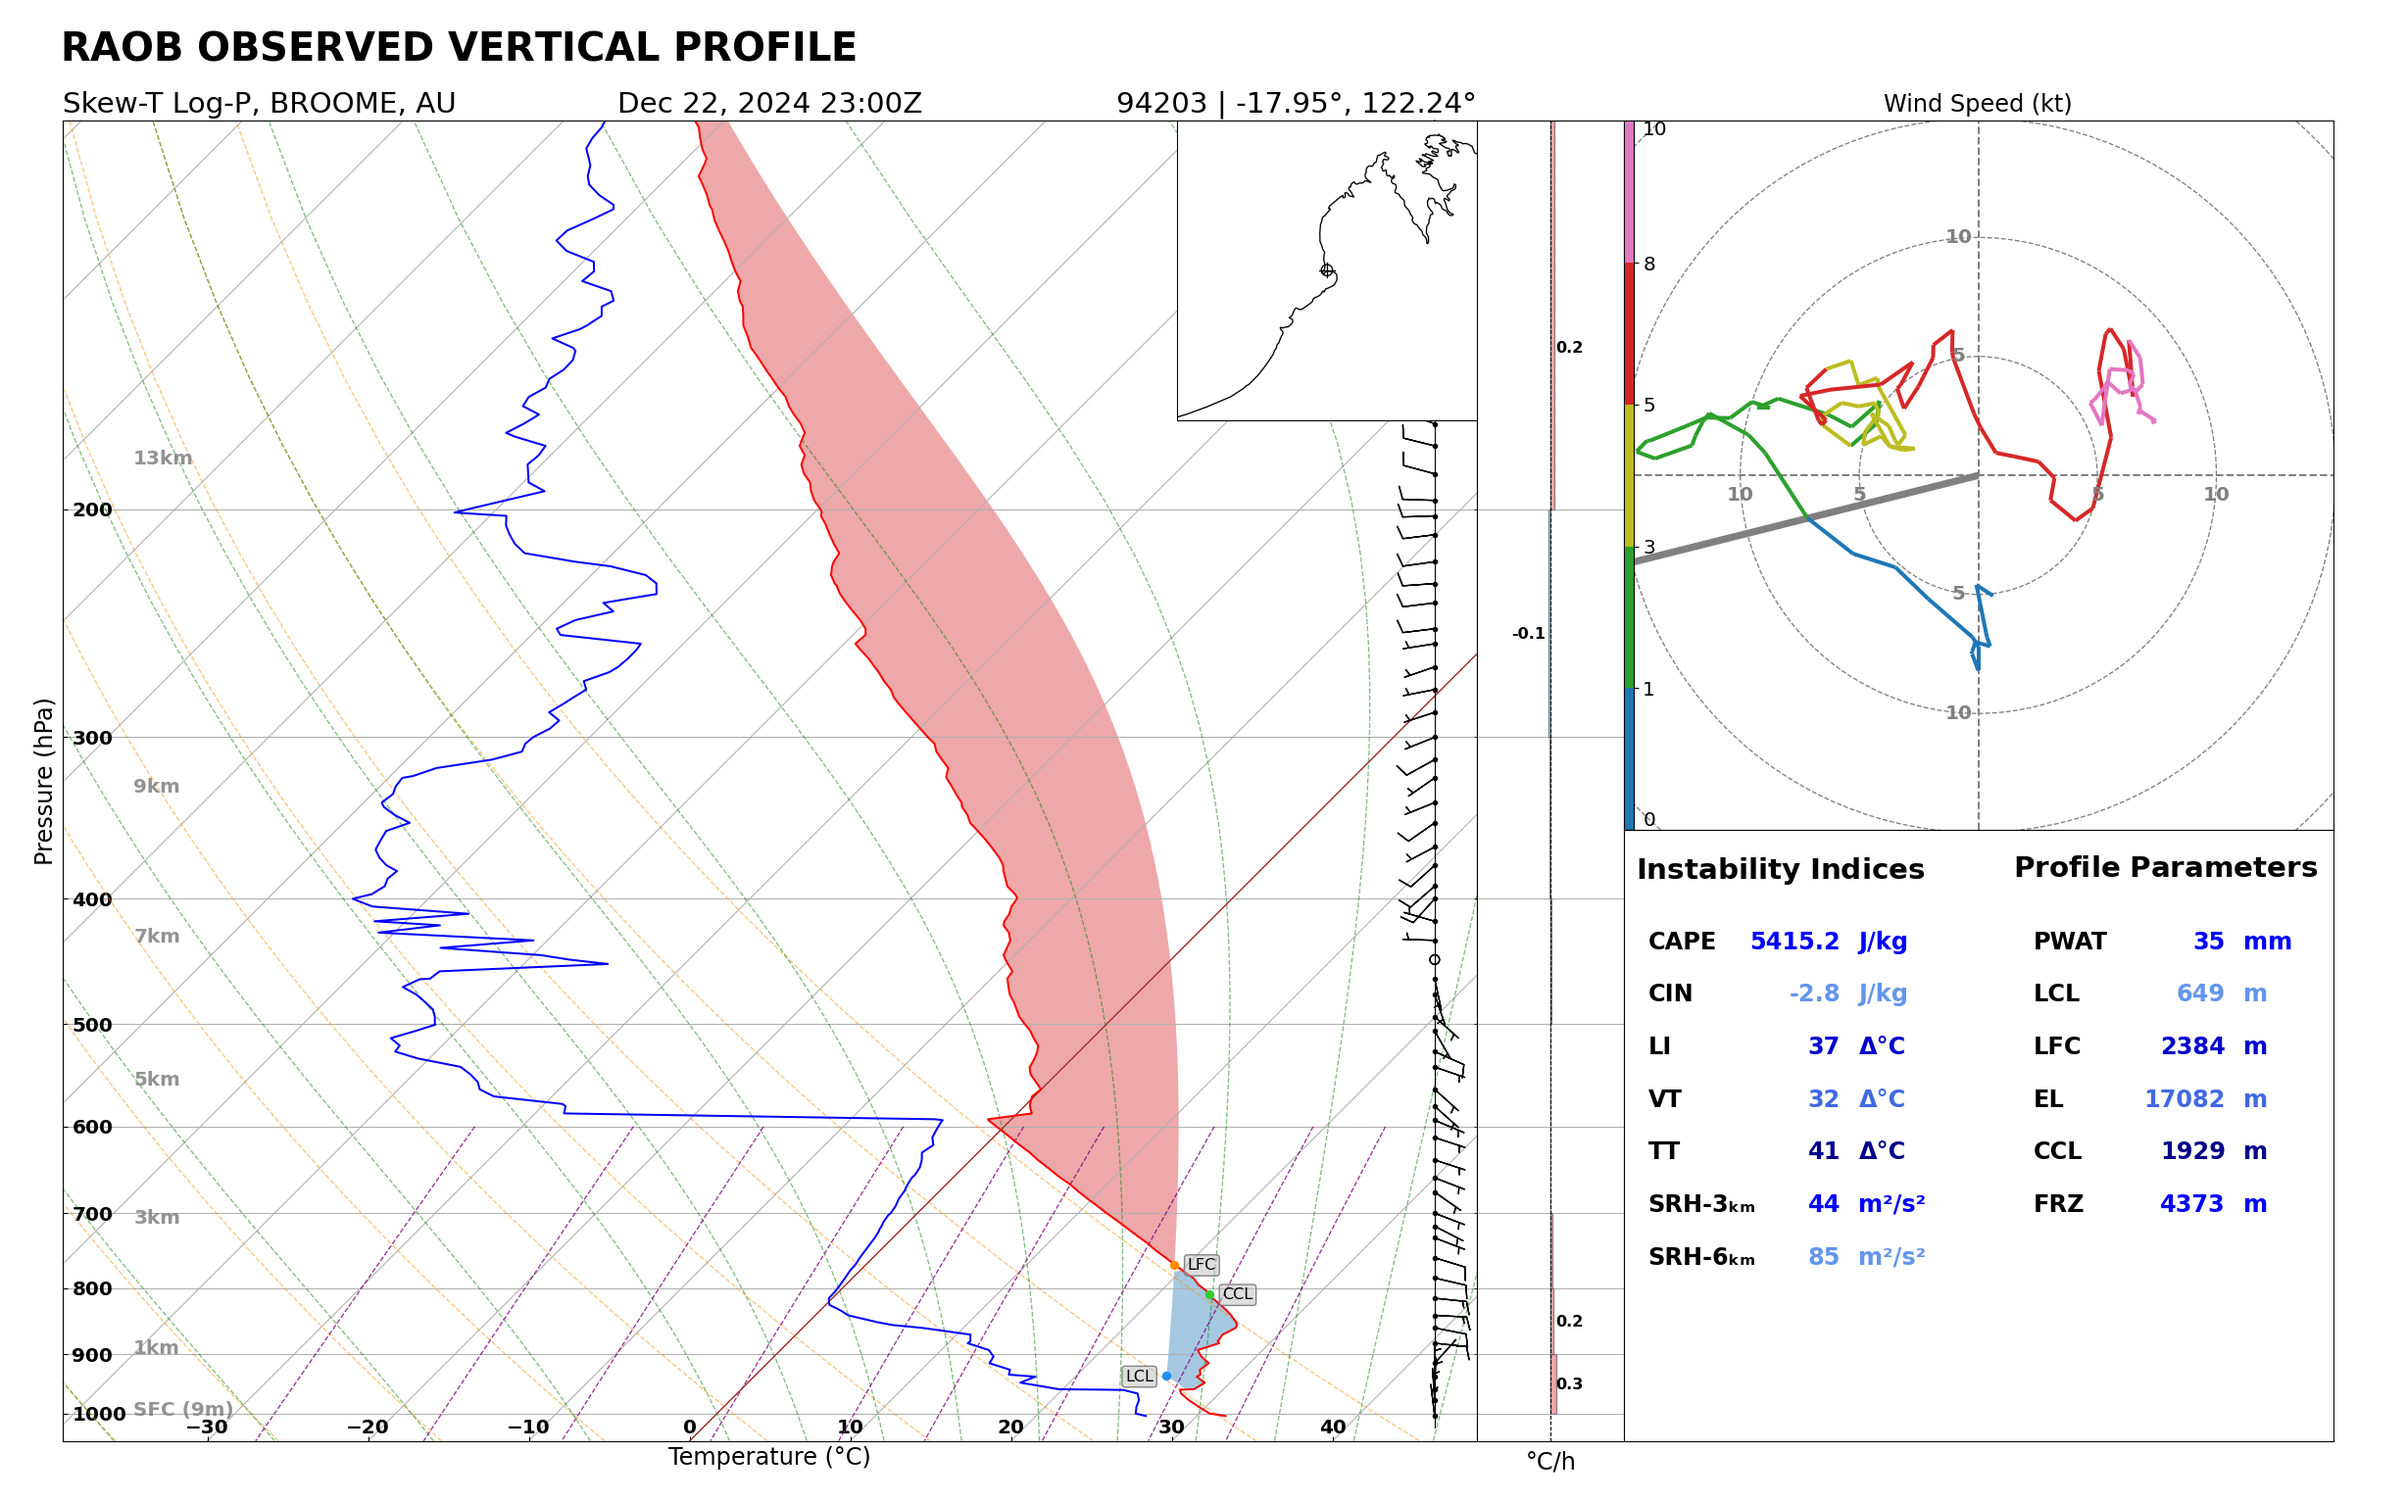
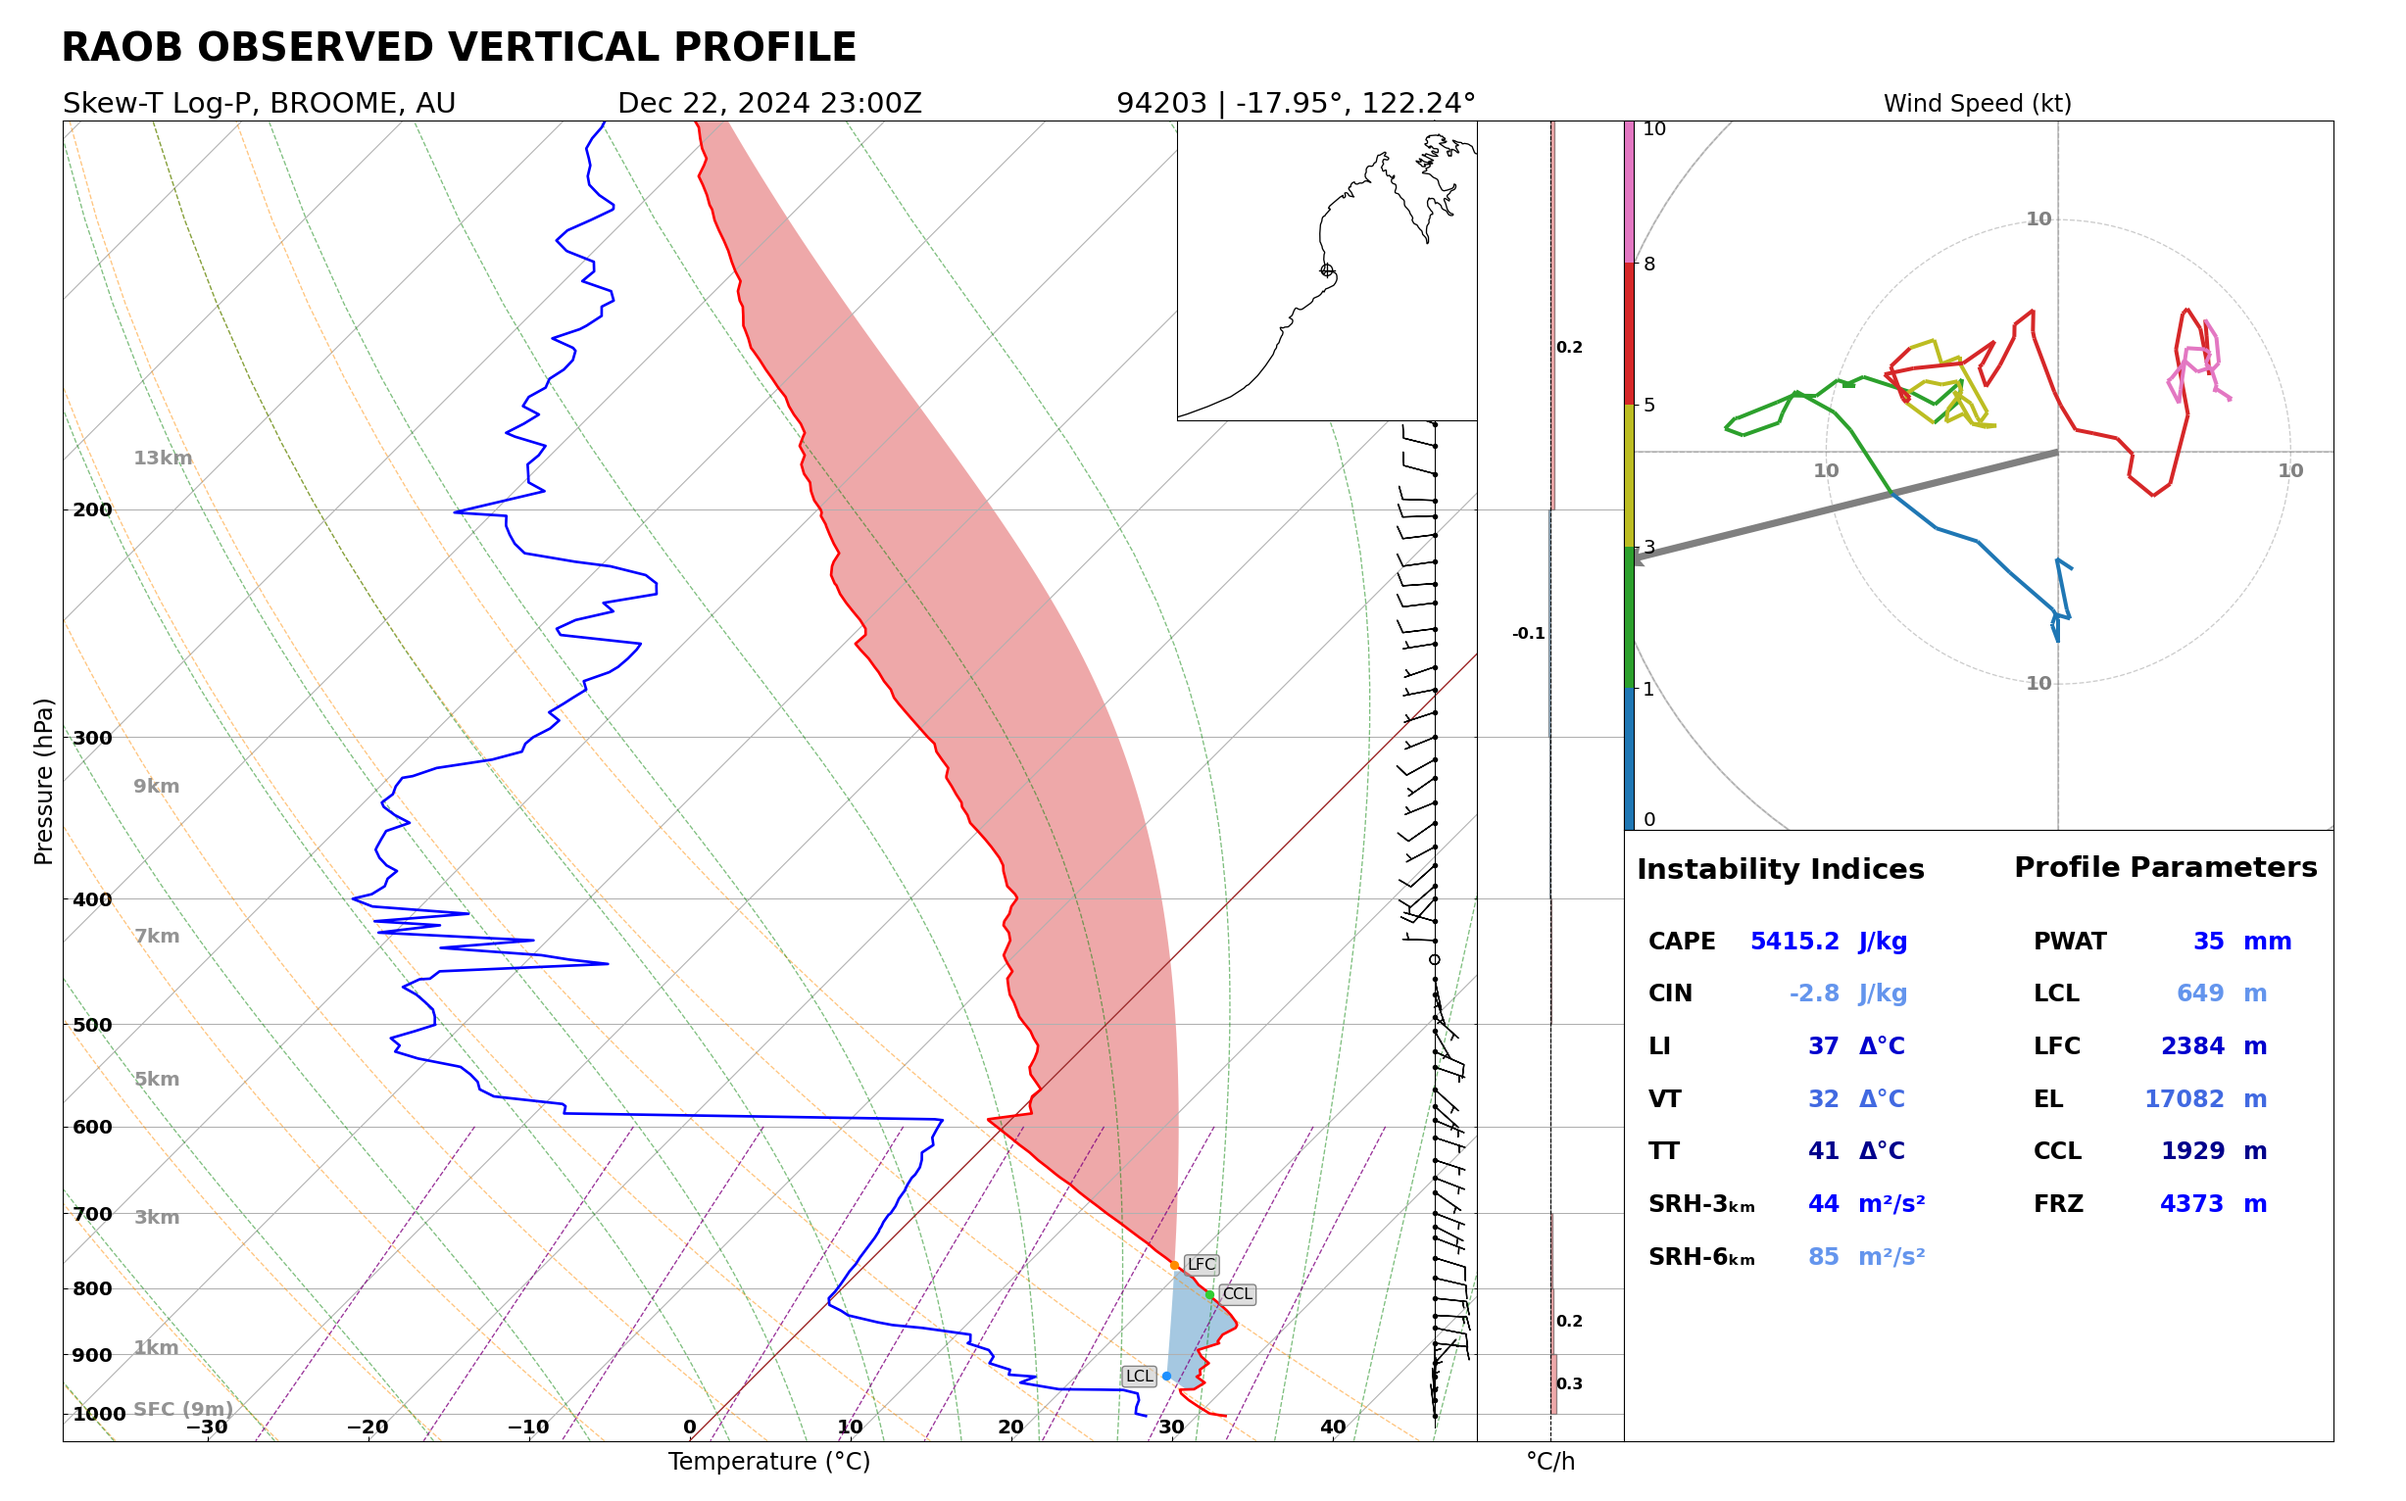
Update files

diff --git a/skewT_plot.py b/skewT_plot.py
@@ -33,8 +33,8 @@ def skewT_plot(pressures, temperatures, dewpoints, wind_u, wind_v, heights, elev
 
     # Plot the data
     skew.ax.axvline(0, color='brown', linestyle='-', linewidth=1)
-    skew.plot(pressures * units.hPa, temperatures * units.degC, 'r', label='Temperature')
-    skew.plot(pressures * units.hPa, dewpoints * units.degC, 'b', label='Dew Point')
+    skew.plot(pressures * units.hPa, temperatures * units.degC, 'r', label='Temperature', linewidth=2)
+    skew.plot(pressures * units.hPa, dewpoints * units.degC, 'b', label='Dew Point', linewidth=2)
     skew.plot_barbs(pressures_short[::3] * units.hPa, wind_u_short[::3] * units.meter / units.second,
         wind_v_short[::3] * units.meter / units.second, xloc=0.97)
     
@@ -191,16 +191,10 @@ def skewT_plot(pressures, temperatures, dewpoints, wind_u, wind_v, heights, elev
     mask = agl <= 10   # Limit to heights below 10 km
     intervals = np.array([0, 1, 3, 5, 8, 10])
     colors = ['tab:blue', 'tab:green', 'tab:olive', 'tab:red', 'tab:pink']
-
-    component_range = max(abs(wind_u[mask].max()), abs(wind_u[mask].min()), abs(wind_v[mask].max()), abs(wind_v[mask].min()))
-    component_range = math.ceil(component_range / 5) * 5
-    valid_increments = np.array([5, 10, 15, 20])
-    grid_increment = valid_increments[np.argmin(abs(valid_increments - component_range / 3))]
     
     # Add hodograph on the right
     ax_hodo = fig.add_axes([0.586, 0.447, 0.4725, 0.4725])
-    h = Hodograph(ax_hodo, component_range=component_range)
-    h.add_grid(increment=grid_increment)
+    h = Hodograph(ax_hodo, component_range=150)
     l = h.plot_colormapped(
         wind_u[mask],
         wind_v[mask],
@@ -209,9 +203,33 @@ def skewT_plot(pressures, temperatures, dewpoints, wind_u, wind_v, heights, elev
         colors=colors
     )
 
-    # Set limits with a margin of 0.1
-    ax_hodo.set_xlim(-component_range + 0.1, component_range - 0.1)
-    ax_hodo.set_ylim(-component_range + 0.1, component_range - 0.1)
+    # Calculate the min and max of wind components
+    u_min, u_max = wind_u[mask].min(), wind_u[mask].max()
+    v_min, v_max = wind_v[mask].min(), wind_v[mask].max()
+
+    # Ensure 0 is included in the range
+    u_min, u_max = min(u_min, 0), max(u_max, 0)
+    v_min, v_max = min(v_min, 0), max(v_max, 0)
+
+    # Determine the overall range for both axes
+    x_range, y_range = u_max - u_min, v_max - v_min
+
+    # Adjust the limits to be square
+    x_center = (u_max + u_min) / 2  # Center of x-axis
+    y_center = (v_max + v_min) / 2  # Center of y-axis
+
+    x_min = x_center - (max(x_range, y_range) / 2) - 0.2 * max(x_range, y_range)
+    x_max = x_center + (max(x_range, y_range) / 2) + 0.2 * max(x_range, y_range)
+    y_min = y_center - (max(x_range, y_range) / 2) - 0.2 * max(x_range, y_range)
+    y_max = y_center + (max(x_range, y_range) / 2) + 0.2 * max(x_range, y_range)
+
+    # Set the limits to ensure a square plot
+    ax_hodo.set_xlim(x_min, x_max)
+    ax_hodo.set_ylim(y_min, y_max)
+ 
+    # Add grid if needed
+    h.add_grid(increment=20, color='gray', linestyle='-', linewidth=1.5, alpha=0.4) 
+    h.add_grid(increment=10, color='gray', linestyle='--', linewidth=1, alpha=0.4)
 
     # Turn off default axis ticks
     ax_hodo.set_xticks([])
@@ -231,7 +249,7 @@ def skewT_plot(pressures, temperatures, dewpoints, wind_u, wind_v, heights, elev
     for label in ax_hodo.get_yticklabels():
         label.set_horizontalalignment('left')
 
-    velocity_range = np.arange(0, component_range + 1, grid_increment)
+    velocity_range = range(0,200,10)
     for vel in velocity_range[1:]:  # Skip 0 to avoid overlapping at the center
         # Positive X-axis
         ax_hodo.annotate(
